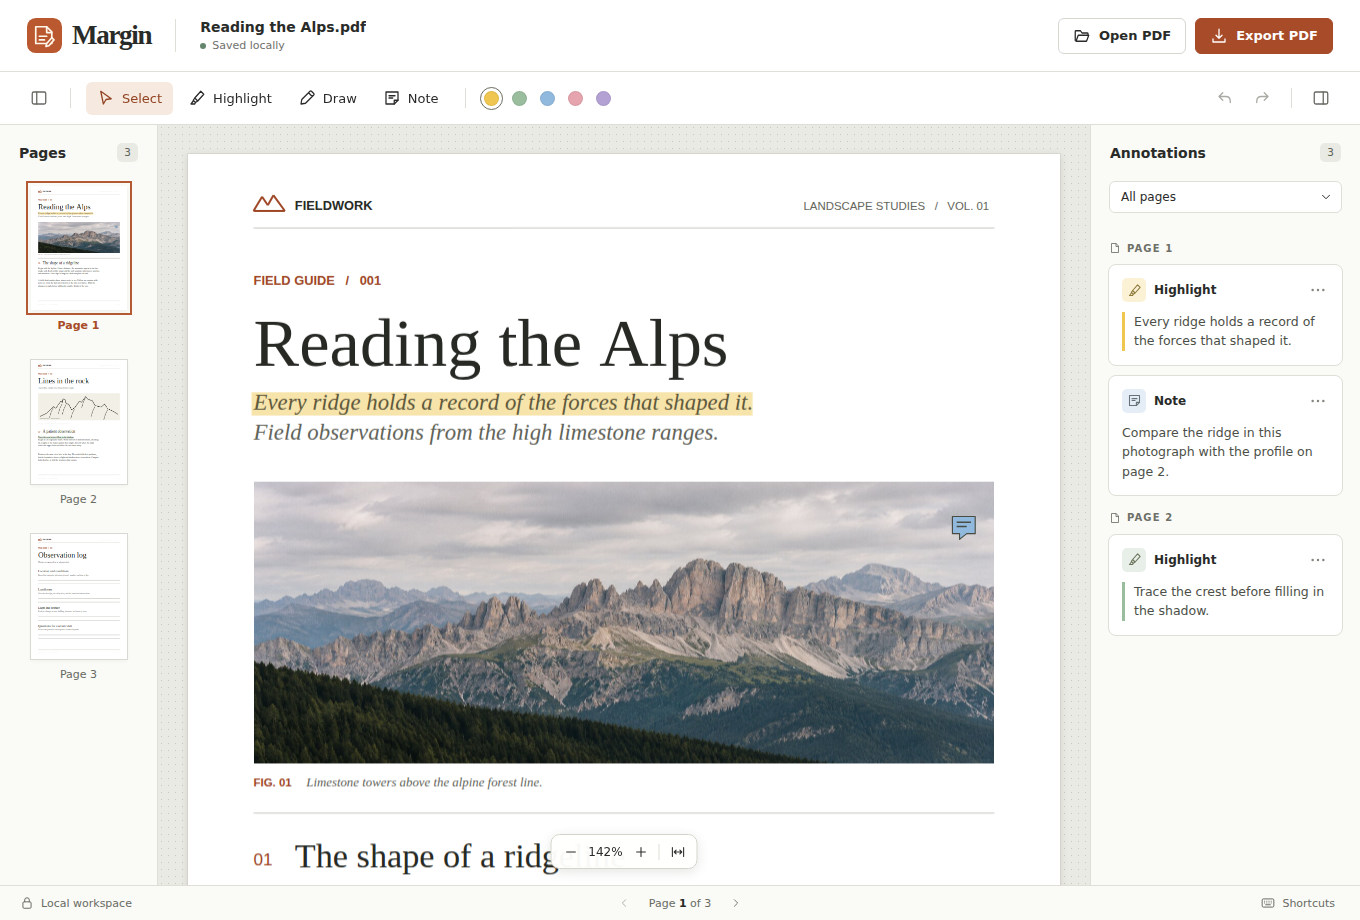
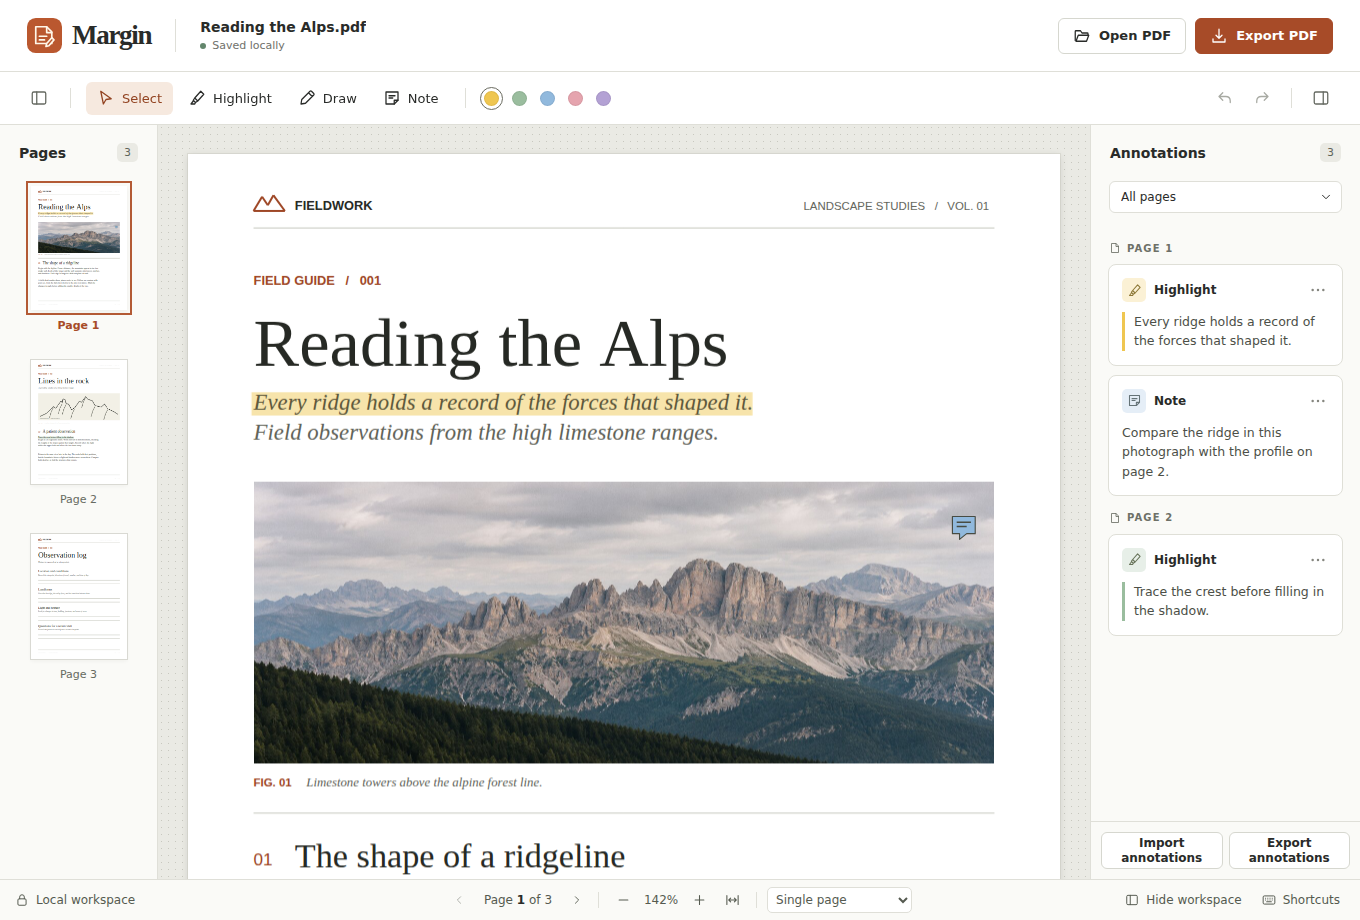
Show the migration controls in the installation guide

diff --git a/README.md b/README.md
@@ -19,7 +19,7 @@ On your first launch from a new tab, Margin opens *Reading the Alps*. It already
 2. Click **Note**, click a spot on the page, type a comment, and click **Save note**. To edit it later, click **Select**, then the note marker.
 3. Click **Export PDF**. Your browser downloads **Reading the Alps-annotated.pdf**. Open that file in your PDF reader to see the marks, or reopen it in Margin to keep editing.
 
-![Margin showing Reading the Alps, with the Highlight and Note tools above the page and the annotations list on the right.](docs/margin-editor.png)
+![Margin showing Reading the Alps, with Import annotations and Export annotations at the bottom of the right-hand Annotations panel.](docs/margin-editor.png)
 
 ## Open your own PDF
 
